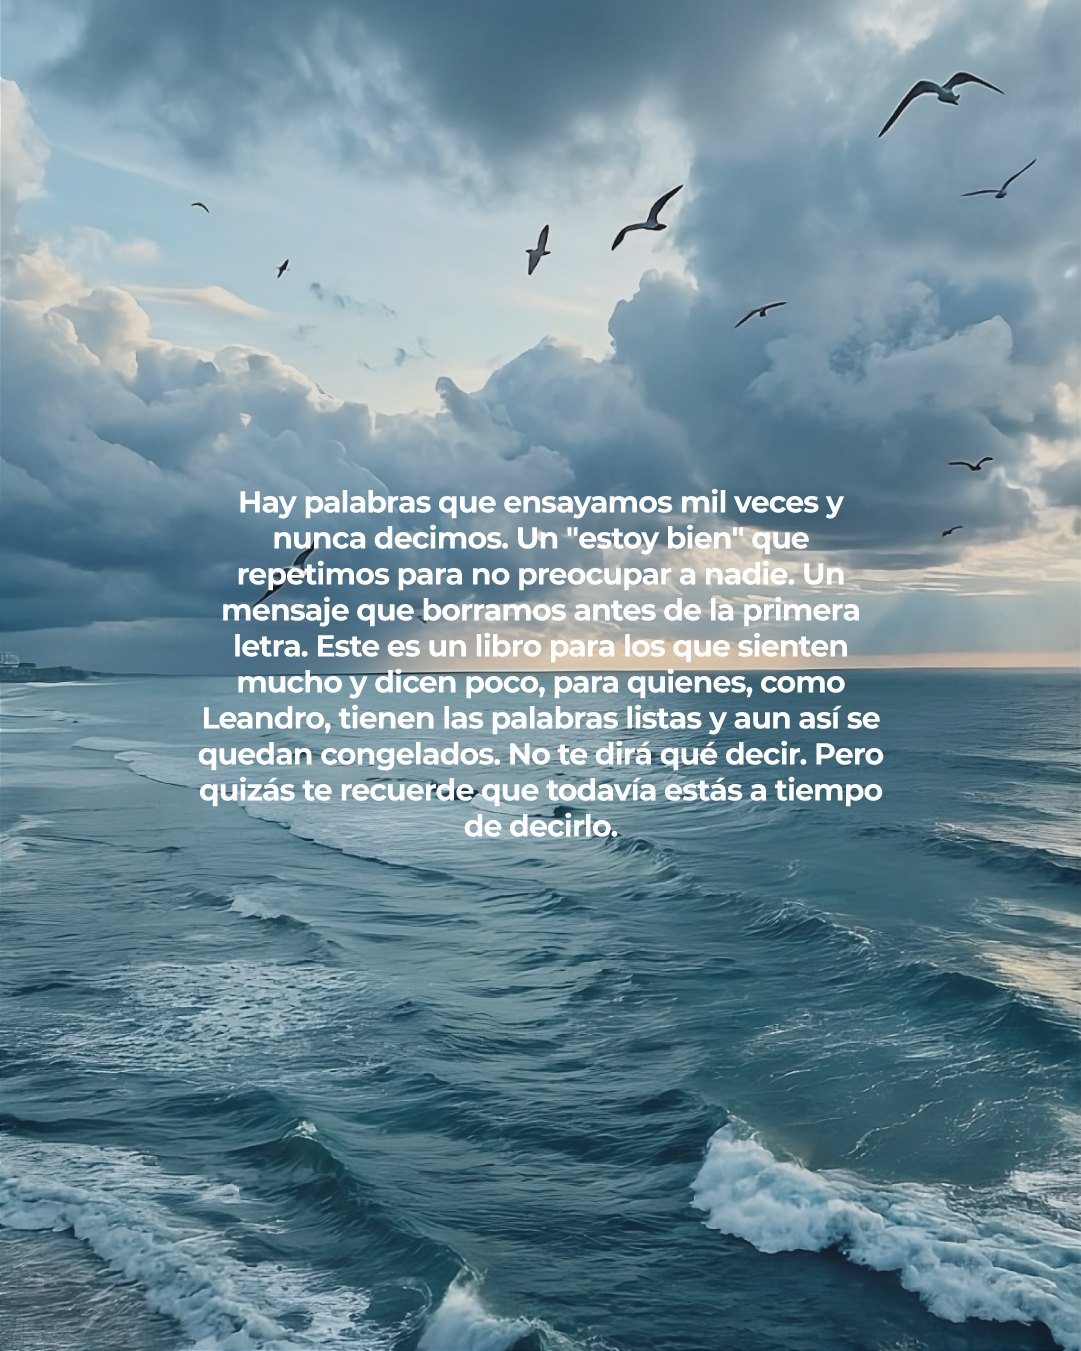
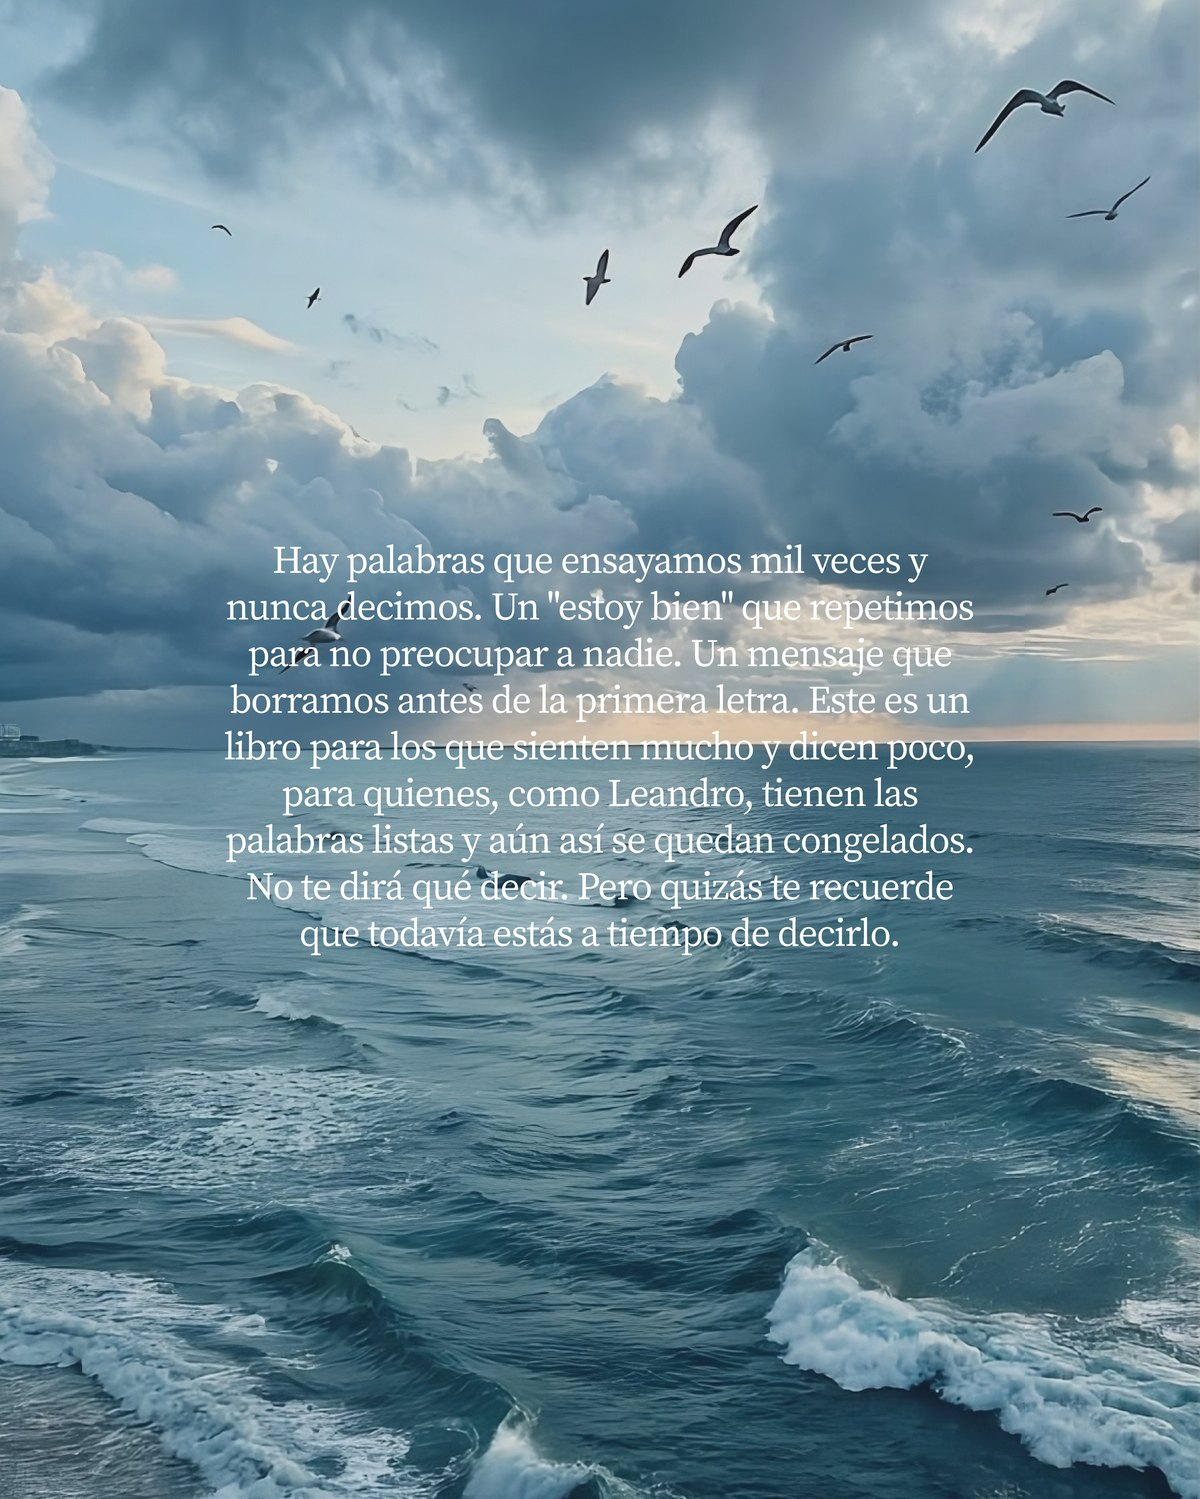
Arregla build del e-book: restaura claves ebook-front/back y optimiza portadas (PNG 20MB -> JPG ~200KB)

diff --git a/lib/images.ts b/lib/images.ts
@@ -34,8 +34,8 @@ import bts6 from "@/assets/img/bts-6.jpg";
 import bts7 from "@/assets/img/bts-7.jpg";
 import bts8 from "@/assets/img/bts-8.jpg";
 import bts9 from "@/assets/img/bts-9.jpg";
-import ebookFront from "@/assets/img/Portada-ebook.png";
-import ebookBack from "@/assets/img/Contraportada-ebook.png";
+import ebookFront from "@/assets/img/ebook-front.jpg";
+import ebookBack from "@/assets/img/ebook-back.jpg";
 import epCover1 from "@/assets/img/ep-cover-1.jpg";
 import epCover2 from "@/assets/img/ep-cover-2.jpg";
 import epCover3 from "@/assets/img/ep-cover-3.jpg";
@@ -91,8 +91,8 @@ export const IMG = {
   "bts-7": bts7,
   "bts-8": bts8,
   "bts-9": bts9,
-  "Portada-ebook": ebookFront,
-  "Contraportada-ebook": ebookBack,
+  "ebook-front": ebookFront,
+  "ebook-back": ebookBack,
   "ep-cover-1": epCover1,
   "ep-cover-2": epCover2,
   "ep-cover-3": epCover3,